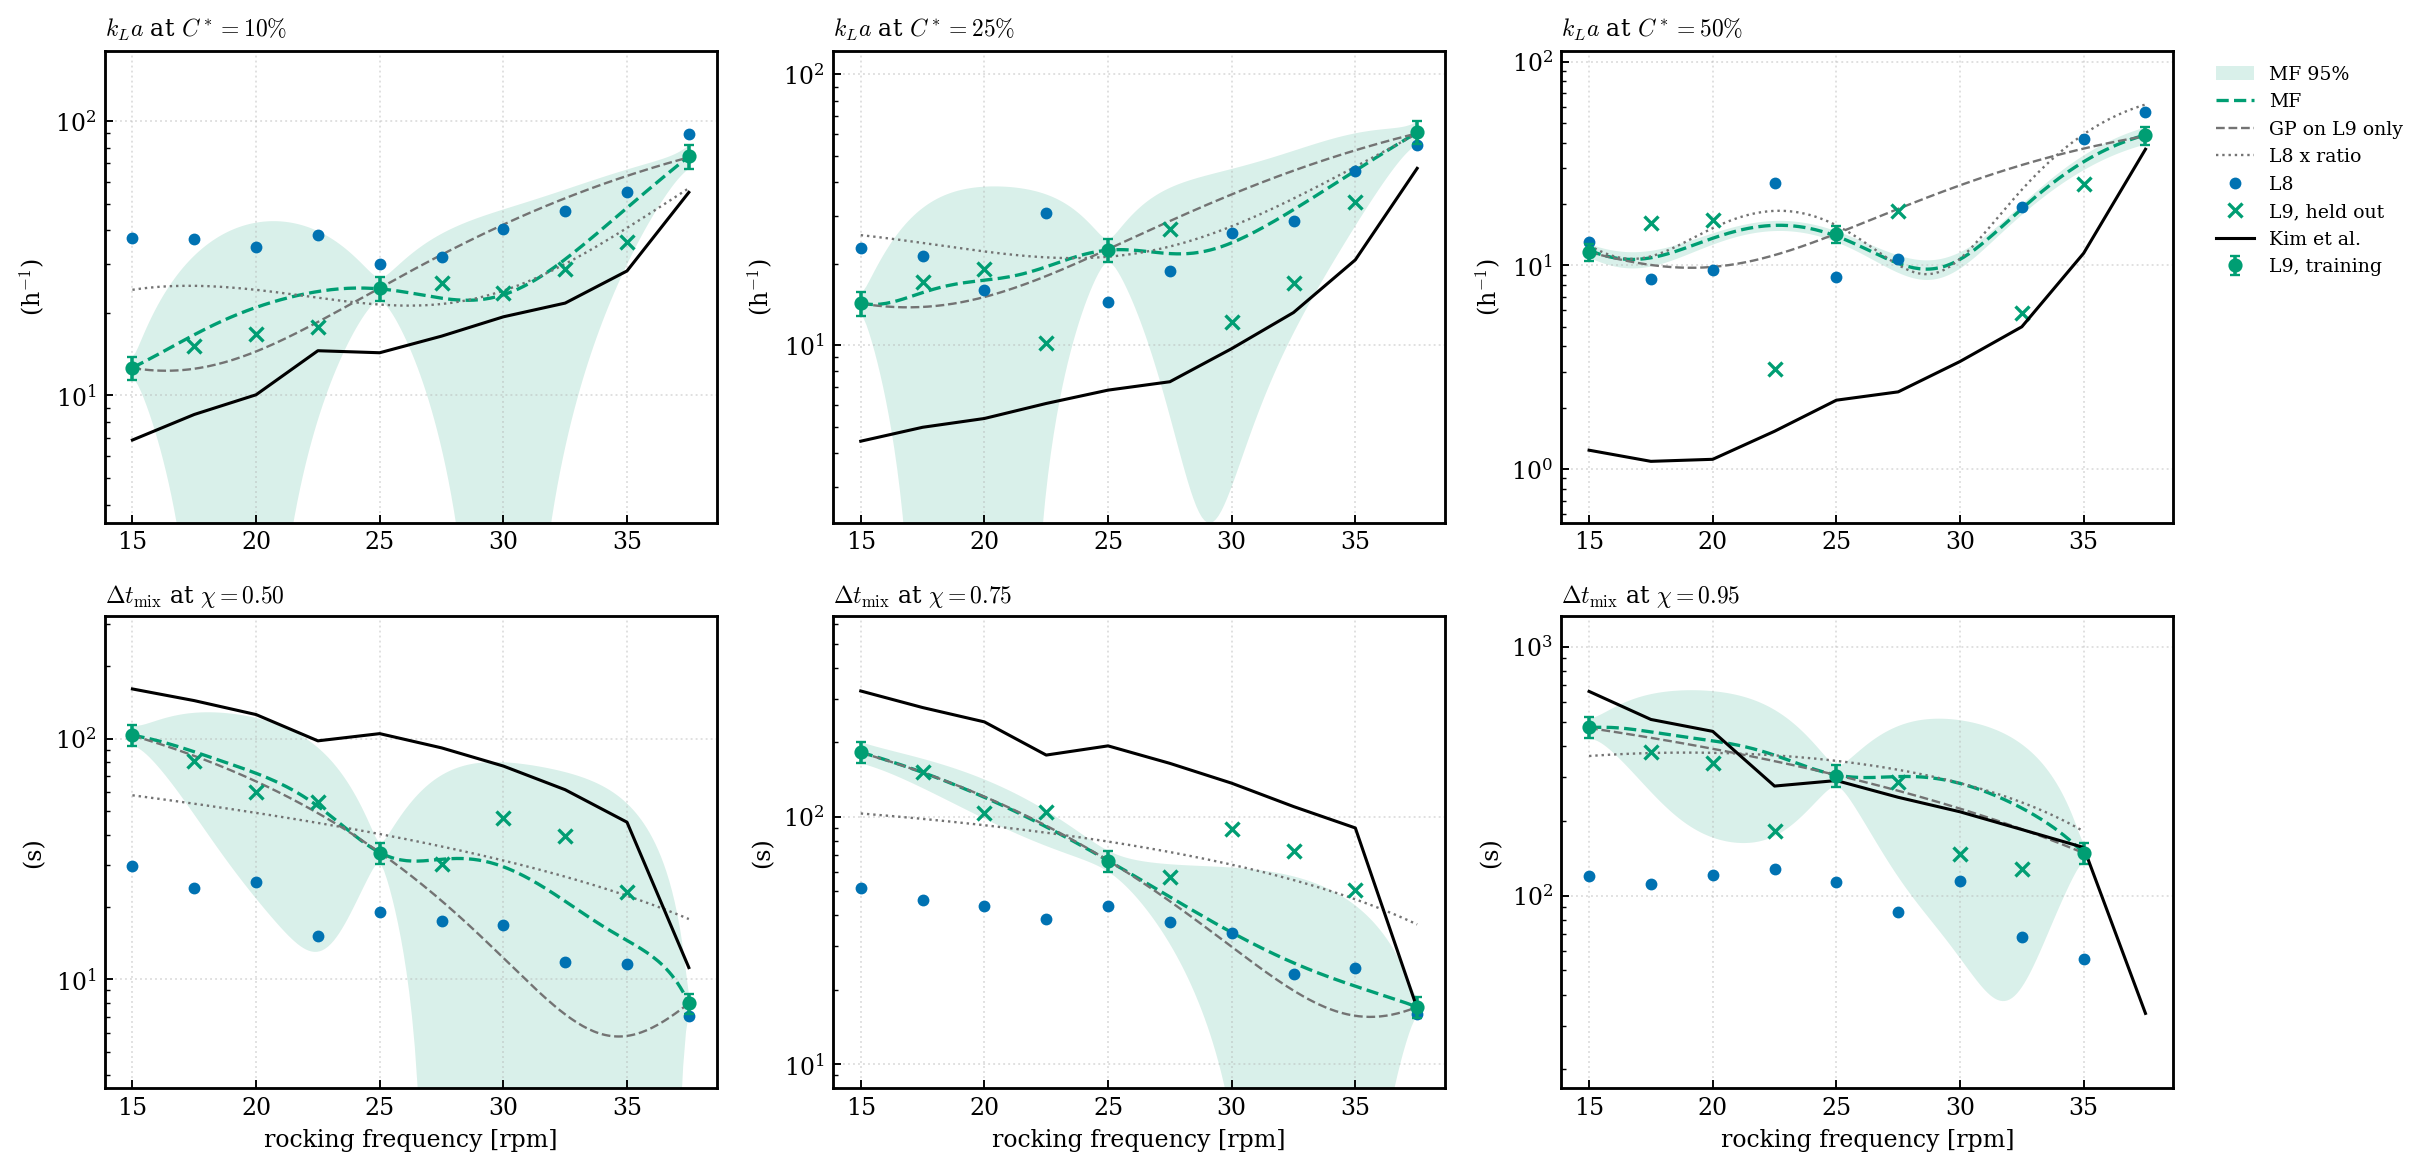
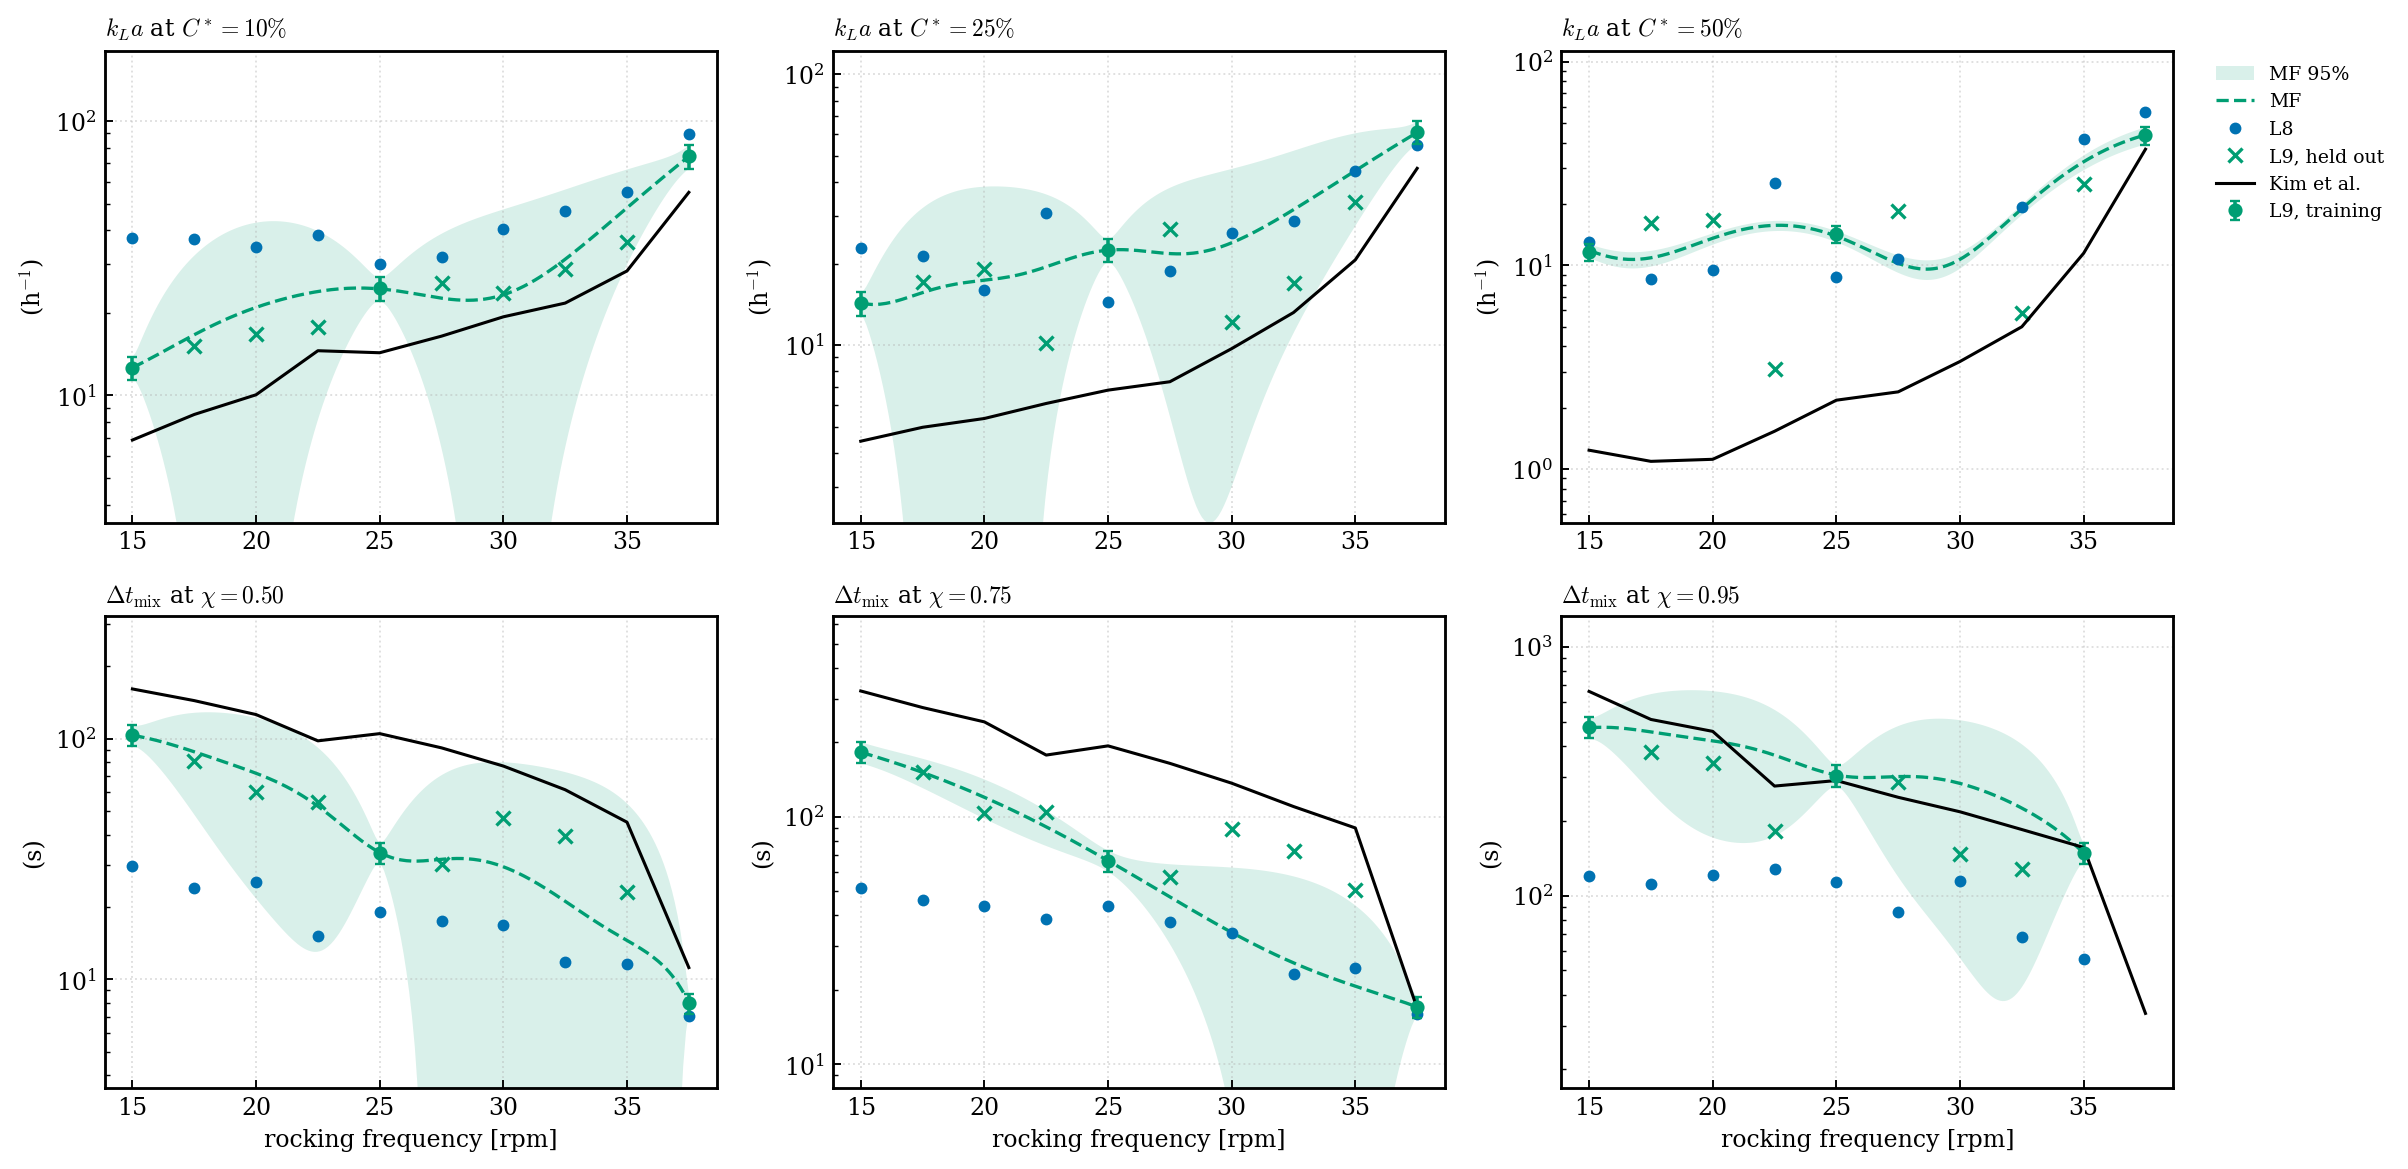
figures(mf): drop baseline curves from H1/H2 panels
Claude-Session: https://claude.ai/code/session_01YAKLKMs5oUYu8r6RenvudK

diff --git a/scripts/plot_mf_h1_h2.py b/scripts/plot_mf_h1_h2.py
@@ -74,8 +74,6 @@ def panel(ax, x, lf, hf, lf_lab, hf_lab, c_lf, c_hf, kim_key):
     ax.fill_between(xg, np.maximum(mu - 1.96 * sd, 1e-6), mu + 1.96 * sd,
                     color=c_hf, alpha=0.15, lw=0, label="MF 95%")
     ax.plot(xg, mu, color=c_hf, lw=1.4, ls="--", label="MF")
-    ax.plot(xg, mu_s, color="0.45", lw=1.0, ls="--", label=f"GP on {hf_lab} only")
-    ax.plot(xg, ratio * f_lf(xg), color="0.45", lw=1.0, ls=":", label=f"{lf_lab} x ratio")
     ax.plot(x, lf, ls="none", marker="o", color=c_lf, ms=4, label=lf_lab)
     ax.errorbar(x[train], hf[train], yerr=1.96 * REL_NOISE * hf[train], fmt="o",
                 color=c_hf, ms=5, capsize=2, label=f"{hf_lab}, training")
